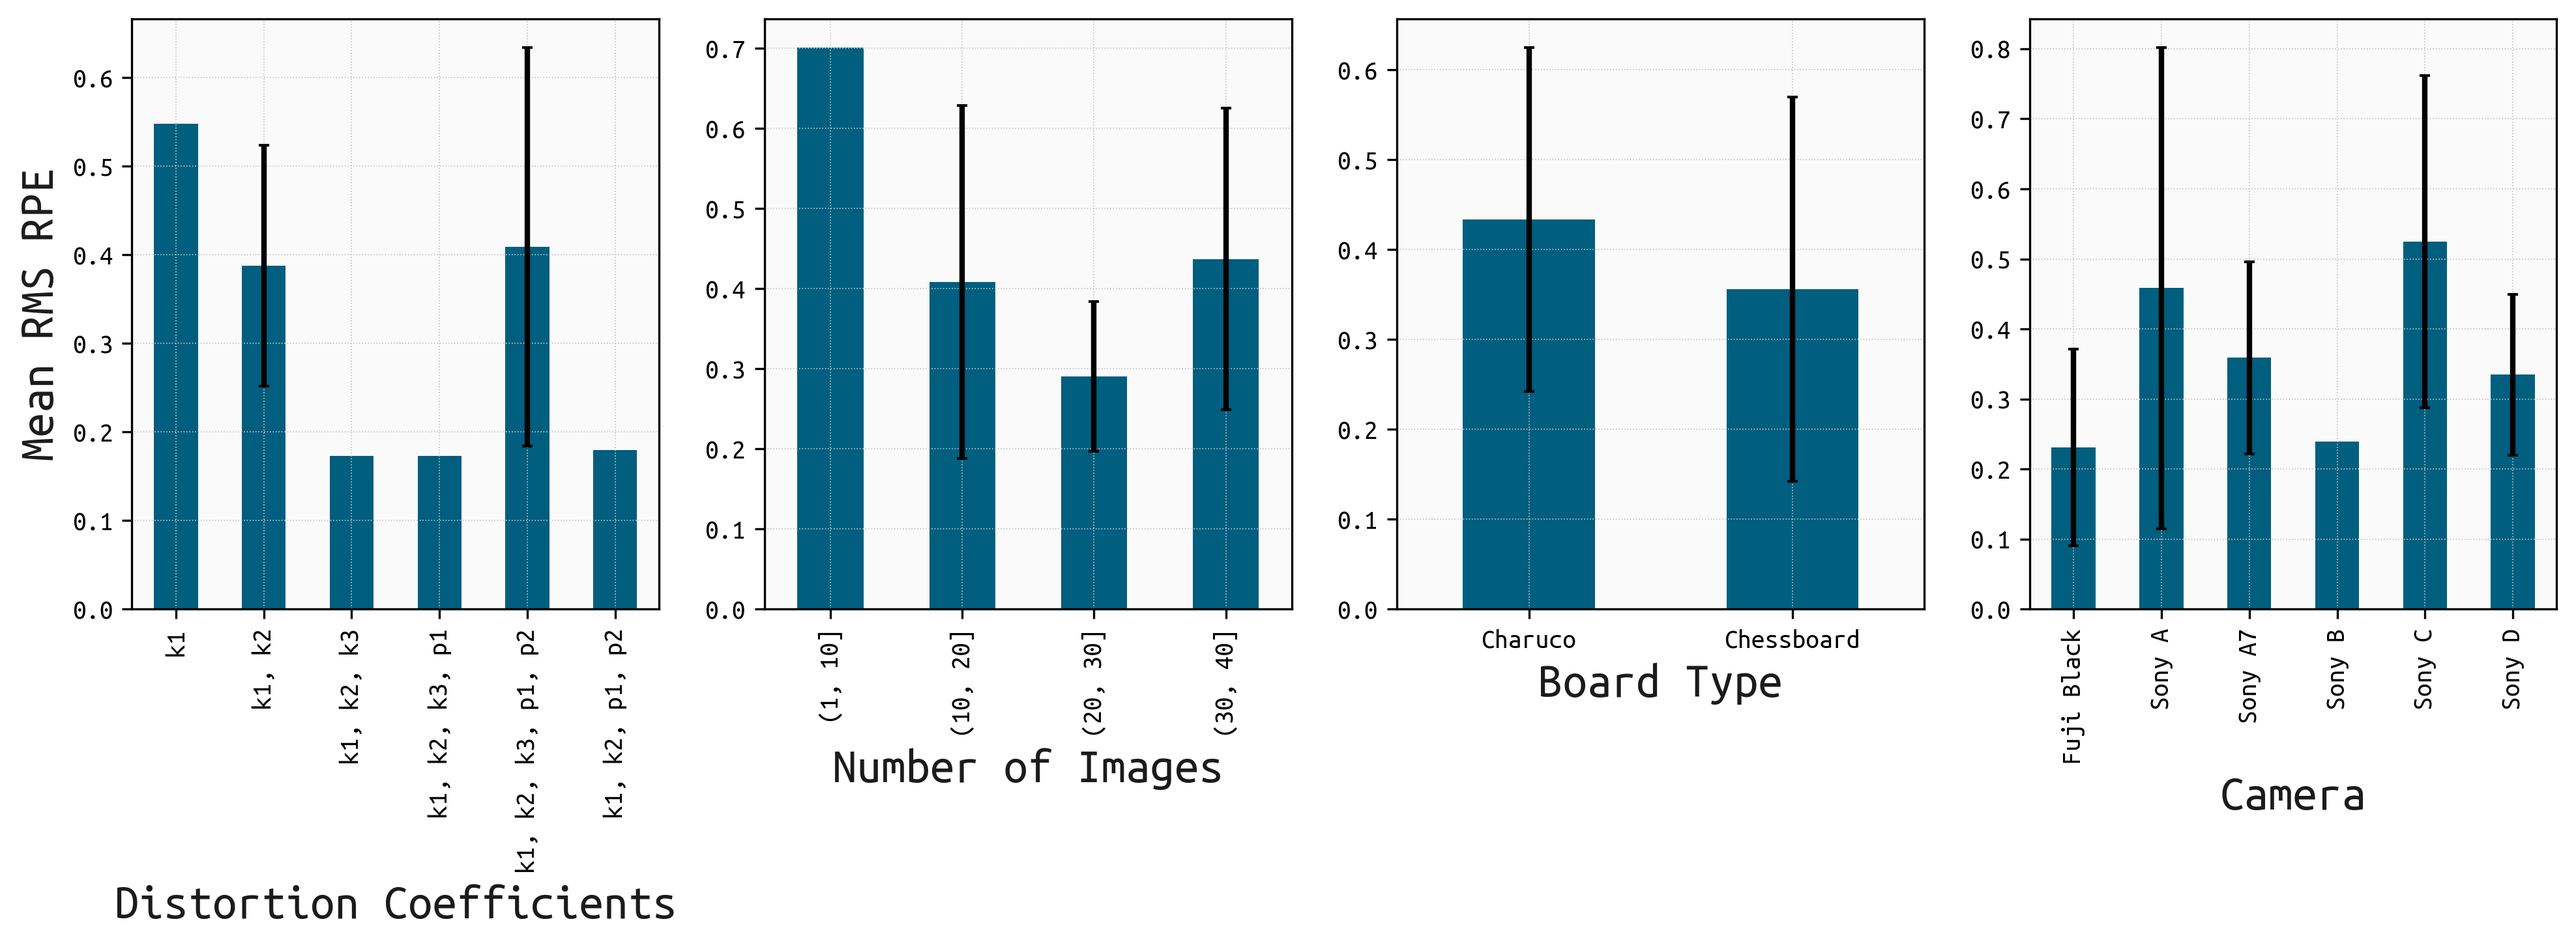
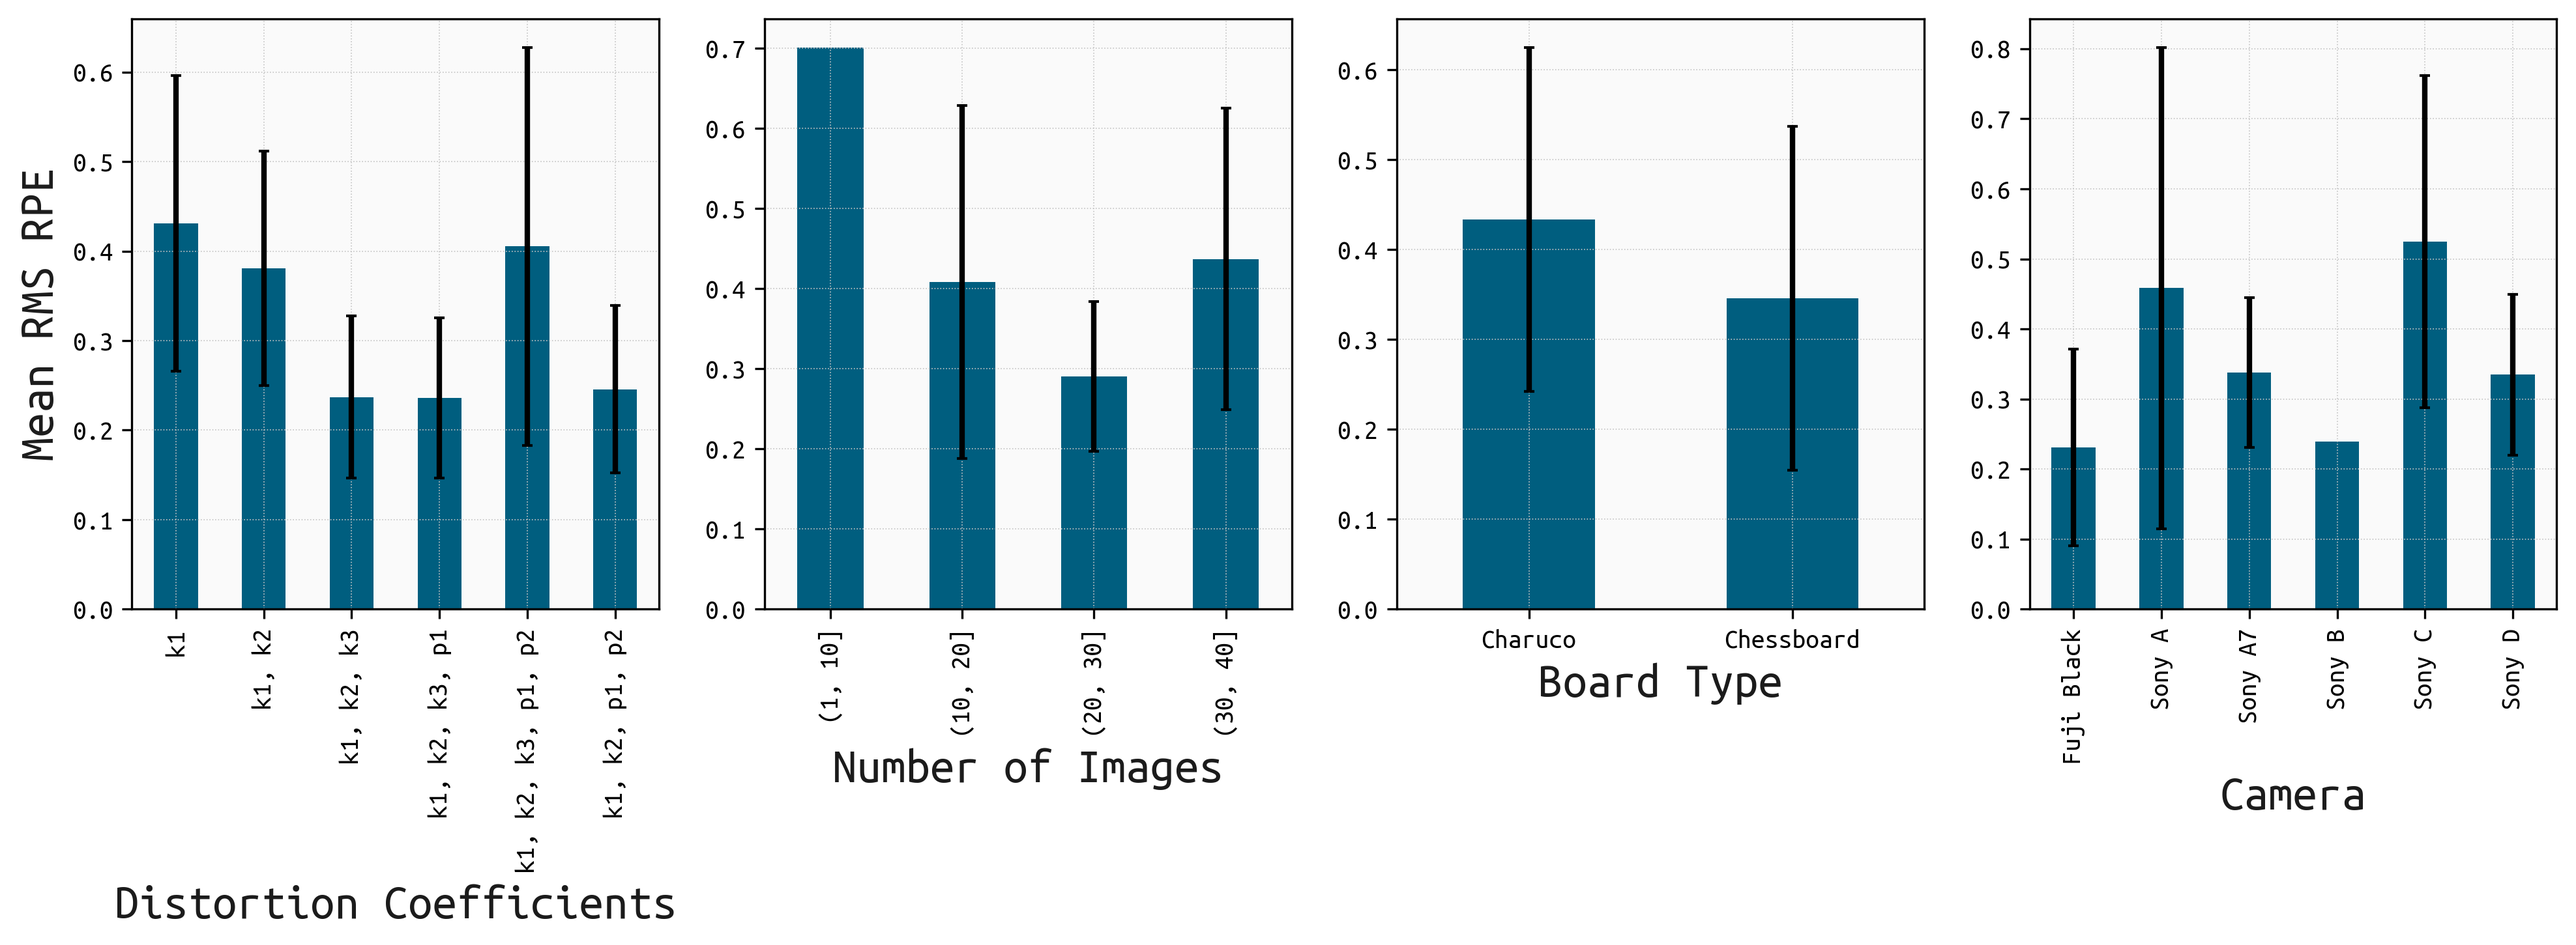
Fix json->xml converter to correctly allow for any combination of dist coeffs; update documentation with corrected distortion plots and dist coeff combination recommendation from k1, k2 -> k1, k2, k3; add instructions for converter usage to docs; closes #3

diff --git a/python/calib-to-opencv.py b/python/calib-to-opencv.py
@@ -63,6 +63,7 @@ def to_xml(filepath, xml_dir):
 
         # Now adust the parameter list order to match Open CV's dist_coeff
         # matrix ordering.
+        # [f, ar, cx, cy, k1, k2, p1, p2, k3, k4, k5, k6, s1, s2, s3, s4, tauX, tauY]
         opencv_order = [0, 1, 2, 3, 4, 5, 10, 11, 6, 7, 8, 9, 12, 13, 14, 15, 16, 17]
         p_list[:] = [p_list[i] for i in opencv_order]
 
@@ -99,11 +100,12 @@ def to_xml(filepath, xml_dir):
         dist_coeff_str = ""
         num_coeffs = 0
 
-        for j, val in enumerate(p_list):
-            if j > 3:
-                if val != 0 and val != 1:
-                    num_coeffs += 1
-                    dist_coeff_str += str(val) + " "
+        for j, val in enumerate(p_list[4:9]):
+            # If we're going to have params beyond k1, ensure that k2, p1, p2 are
+            # included, even if they're 0 (opencv needs them since the order is k1, k2,
+            # p1, p2, k3, ...)
+            num_coeffs += 1
+            dist_coeff_str += str(val) + " "
 
         e.SubElement(dist_coeff_ele, "rows").text = str(num_coeffs)
         e.SubElement(dist_coeff_ele, "cols").text = "1"

diff --git a/README.md b/README.md
@@ -7,6 +7,7 @@ Alternative calibration options include importing calibration data produced with
 **Table of Contents**
 - [Usage](#Usage)
     - [Examples](#Examples)
+    - [Converting Calib.io JSON calibration files to OpenCV XML format](#convert-json-xml)
 - [Best practices for a good calibration](#best-practices)
     - [Image capture](#Image-capture)
     - [Calibration](#Calibration)
@@ -30,7 +31,7 @@ The code will read all calibration images from one directory, plots a summary fi
 **Example camera calibration and pixel distortion using intrinsic and distorted parameters (Sony alpha-7 55 mm lense):**
 ![](examples/sony_alpha7_55m_CC_chess_comparison_1panel.jpg)
 
-## Examples
+### Examples
 Example call from Ubuntu command line (expecting OpenCV to be installed).
 
 #### Using Sony alpha-6000 and charuco board
@@ -103,6 +104,18 @@ single_camera_calibration_charuco_chess_openCV.py  \
   --focal_length_pixels $focal_length_pixels
 ```
 
+### Converting Calib.io JSON calibration files to OpenCV XML format<a name="convert-json-xml" />
+If you have an exported JSON calibration file from a calibration done using Calib.io, you convert it using our conversion script. If `json_dir` or `xml_dir` is not supplied, the script will look for JSON files in the current directory and ouput the related XML files in a newly created `xml/` directory.
+
+```bash
+python python/calib-to-opencv.py --json_dir="path/to/json" --xml_dir="path/to/output"
+```
+
+For help use:
+```bash
+python python/calib-to-opencv.py -h
+```
+
 ## Best practices<a name="best-practices" />
 ### Image capture
 Before capturing calibration images it is critical to ensure the camera is configured  and mounted properly, the board is high quality, and the scene is set appropriately to ensure a smooth calibration process.
@@ -172,8 +185,8 @@ As mentioned above, we recommend the use of a remote shutter or using a short se
 ### Calibration
 When using OpenCV or Calib.io, consider the following rules of thumb:
 - Only 20-30 images are necessary
-- If possible, estimate only for "k<sub>1</sub>, k<sub>2</sub>". Otherwise prefer "k<sub>1</sub>, k<sub>2</sub>, k<sub>3</sub>, p<sub>1</sub>, p<sub>2</sub>".
-- Include between 20 and 30 images.
+- If possible, estimate only for "k<sub>1</sub>, k<sub>2</sub>, k<sub>3</sub>", leaving out additional p coefficents.
+- Use between 20 and 30 images.
 
 ## Our testing
 To inform the above recommendations, multiple calibration sessions were conducted with a variety of cameras, targets, image counts, and target-camera orientations. To analyze the success of a calibration, we looked at each calibration's root mean squared reprojection error (RMSE) and distortion plot. To compare two calibrations' distortion plots, we simply took the difference between the two.
@@ -186,24 +199,17 @@ To inform the above recommendations, multiple calibration sessions were conducte
 As can be seen in Figure 1, the following potential recommendations emerge:
 - Include between 20 and 30 images.
 - Use the Calib.io checkerboard (referred to as "chessboard" above), though the Calib.io CharuCo board also performs well.
-- While it appears that using "k<sub>1</sub>, k<sub>2</sub>, k<sub>3</sub>", "k<sub>1</sub>, k<sub>2</sub>, k<sub>3</sub>, p<sub>1</sub>", or "k<sub>1</sub>, k<sub>2</sub>, p<sub>2</sub>" is preferred due to their low RMSE, we decided to look further into the corresponding distortion plots.
+- While it appears that using "k<sub>1</sub>, k<sub>2</sub>, k<sub>3</sub>", "k<sub>1</sub>, k<sub>2</sub>, k<sub>3</sub>, p<sub>1</sub>", or "k<sub>1</sub>, k<sub>2</sub>, p<sub>2</sub>" is preferred due to their low RMSE, we decided to look further into the corresponding distortion plots to determine if the additional distortion coefficients were necessary to achieve a good calibration.
 
 ### Which distortion coefficients should be estimated during calibration?<a name="which-coefficents" />
-We conducted calibrations comparing different combinations of distortion coefficients, and found that there were diminishing returns (and the possibility of overfitting) when including coefficients beyond k<sub>1</sub> and k<sub>2</sub>.
+We conducted calibrations comparing different combinations of distortion coefficients, and found that there were diminishing returns (and the possibility of overfitting) when including coefficients beyond "k<sub>1</sub>, k<sub>2</sub>, k<sub>3</sub>".
 
 #### Results of solving for different combinations of distortion coefficients
-![Comparison of k1, k2, vs. k1](img/fuji_k1k2_k1_comparison.png)
-![Comparison of k1, k2, vs. k1, k2, k3](img/fuji_k1k2_k1k2k3_comparison.png)
-![Comparison of k1, k2, vs. k1, k2, k3, p1](img/fuji_k1k2_k1k2k3p1_comparison.png)
-![Comparison of k1, k2, vs. k1, k2, p1, p2](img/fuji_k1k2_k1k2p1p2_comparison.png)
-![Comparison of k1, k2, vs. k1, k2, k3, p1, p2](img/fuji_k1k2_k1k2k3p1p2_comparison.png)
+![Comparison of k1, k2, vs. k1](img/sony_a7_k1k2_k1_comparison.png)
+![Comparison of k1, k2, vs. k1, k2, k3](img/sony_a7_k1k2_k1k2k3_comparison.png)
+![Comparison of k1, k2, vs. k1, k2, k3, p1](img/sony_a7_k1k2_k1k2k3p1_comparison.png)
+![Comparison of k1, k2, vs. k1, k2, p1, p2](img/sony_a7_k1k2_k1k2p1p2_comparison.png)
+![Comparison of k1, k2, vs. k1, k2, k3, p1, p2](img/sony_a7_k1k2_k1k2k3p1p2_comparison.png)
 <p style="text-align: center;"><em style="color: grey; text-align:center;">Figure 2. Our results after solving for different combinations of distortion coefficients (using Calib.io). Left column: k<sub>1</sub>, k<sub>2</sub>; middle column: other coefficient combinations; right column: comparison plots.</em></p>
 
-Figure 2 shows that, while the combinations of "k<sub>1</sub>, k<sub>2</sub>, k<sub>3</sub>", "k<sub>1</sub>, k<sub>2</sub>, k<sub>3</sub>, p<sub>1</sub>", and "k<sub>1</sub>, k<sub>2</sub>, p<sub>2</sub> result in low RMSE, their distortion plots are much more exaggerated. With this in mind, we believe it is best to do the following:
-
-Avoid the following combinations, despite their low RMSE:
-- Only k<sub>1</sub>
-- k<sub>1</sub>, k<sub>2</sub>, k<sub>3</sub>
-- k<sub>1</sub>, k<sub>2</sub>, k<sub>3</sub>, p<sub>1</sub>
-
-Prefer: k<sub>1</sub>, k<sub>2</sub>
+Figure 2 shows that, while the combinations of "k<sub>1</sub>, k<sub>2</sub>, k<sub>3</sub>, p<sub>1</sub>", and "k<sub>1</sub>, k<sub>2</sub>, p<sub>2</sub> result in slightly lower RMSE than "k<sub>1</sub>, k<sub>2</sub>", it is not enough to justify estimating for the additional p coefficients. Therefore, our recommendations are to use simply "k<sub>1</sub>, k<sub>2</sub>, k<sub>3</sub>", without the need for additional p coefficients.
